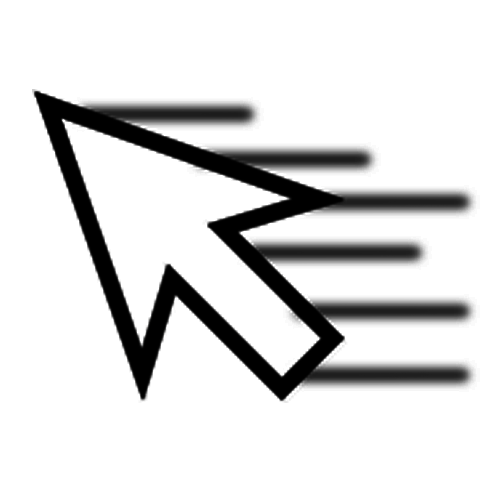
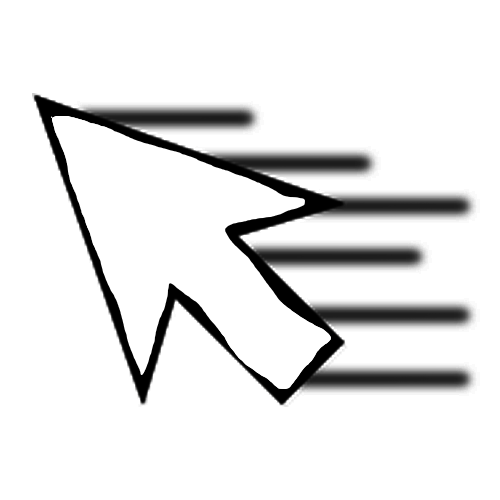
Tryicon added

Changed region(s): [[0.06, 0.18, 0.96, 0.81]]

diff --git a/MSCH/MainWindow.xaml b/MSCH/MainWindow.xaml
@@ -5,7 +5,9 @@
         xmlns:mc="http://schemas.openxmlformats.org/markup-compatibility/2006"
         xmlns:local="clr-namespace:MSCH"
         mc:Ignorable="d"
-        Title="MainWindow" Height="500" Width="450">
+        Title="MouseSpeedChanger" Height="500" Width="450"
+        StateChanged="Window_StateChanged"
+        >
     <Grid>
         <Grid.RowDefinitions>
             <RowDefinition Height="150" />

diff --git a/MSCH/MainWindow.xaml.cs b/MSCH/MainWindow.xaml.cs
@@ -1,6 +1,7 @@
 using System;
 using System.Collections.Generic;
 using System.Linq;
+using System.Runtime.InteropServices;
 using System.Text;
 using System.Threading.Tasks;
 using System.Windows;
@@ -12,8 +13,8 @@ using System.Windows.Media;
 using System.Windows.Media.Imaging;
 using System.Windows.Navigation;
 using System.Windows.Shapes;
-using System.Runtime.InteropServices;
-using System.ComponentModel;
+using System.Windows.Forms;
+using System.Drawing;
 
 namespace MSCH
 {
@@ -22,15 +23,70 @@ namespace MSCH
     /// </summary>
     public partial class MainWindow : Window
     {
-       
 
 
+        private System.Windows.Forms.NotifyIcon MyNotifyIcon = new System.Windows.Forms.NotifyIcon();
+        private System.Windows.Forms.ContextMenu MyContextMenu = new System.Windows.Forms.ContextMenu();
+        private System.Windows.Forms.MenuItem MyMenuItem1 = new System.Windows.Forms.MenuItem();
+        private System.Windows.Forms.MenuItem MyMenuItem2 = new System.Windows.Forms.MenuItem();
         public MainWindow()
         {
+
+
             InitializeComponent();
+            MyNotifyIcon.Icon = new System.Drawing.Icon(@"D:\rocejfi15\MSCH\MSCH\pics\icon.ico");
+            MyNotifyIcon.MouseDoubleClick += new System.Windows.Forms.MouseEventHandler(MyNotifyIcon_MouseDoubleClick);
+            MyContextMenu.MenuItems.AddRange(new System.Windows.Forms.MenuItem[] { MyMenuItem1 });
+            MyContextMenu.MenuItems.AddRange(new System.Windows.Forms.MenuItem[] { MyMenuItem2 });
+            MyMenuItem1.Index = 0;
+            MyMenuItem1.Text = "Exit";
+            MyMenuItem1.Click += new System.EventHandler(this.MyMenuItem1_Click);
+            MyMenuItem2.Index = 1;
+            MyMenuItem2.Text = "Open";
+            MyMenuItem2.Click += new System.EventHandler(this.MyMenuItem2_Click);
             this.DataContext = new MvvmlightCommandViewModel();
+
+
         }
 
-        
+        void MyNotifyIcon_MouseDoubleClick(object sender, System.Windows.Forms.MouseEventArgs e)
+        {
+            this.WindowState = WindowState.Normal;
+        }
+
+        private void Window_StateChanged(object sender, EventArgs e)
+        {
+            if (this.WindowState == WindowState.Minimized)
+            {
+                this.ShowInTaskbar = false;
+                MyNotifyIcon.ContextMenu = MyContextMenu;
+                MyNotifyIcon.BalloonTipTitle = "Minimize Sucessful";
+                MyNotifyIcon.BalloonTipText = "Minimized the app ";
+                MyNotifyIcon.ShowBalloonTip(400);
+                MyNotifyIcon.Visible = true;
+            }
+            else if (this.WindowState == WindowState.Normal)
+            {
+                MyNotifyIcon.Visible = false;
+                this.ShowInTaskbar = true;
+            }
+        }
+
+        void MyNotifyIcon_Click(object sender, System.Windows.Forms.MouseEventArgs e)
+        {
+            this.WindowState = WindowState.Normal;
+        }
+
+        void MyMenuItem1_Click(object Sender, EventArgs e)
+        {
+            Close();
+        }
+
+        void MyMenuItem2_Click(object Sender, EventArgs e)
+        {
+            this.WindowState = WindowState.Normal;
+        }
+
+
     }
 }
